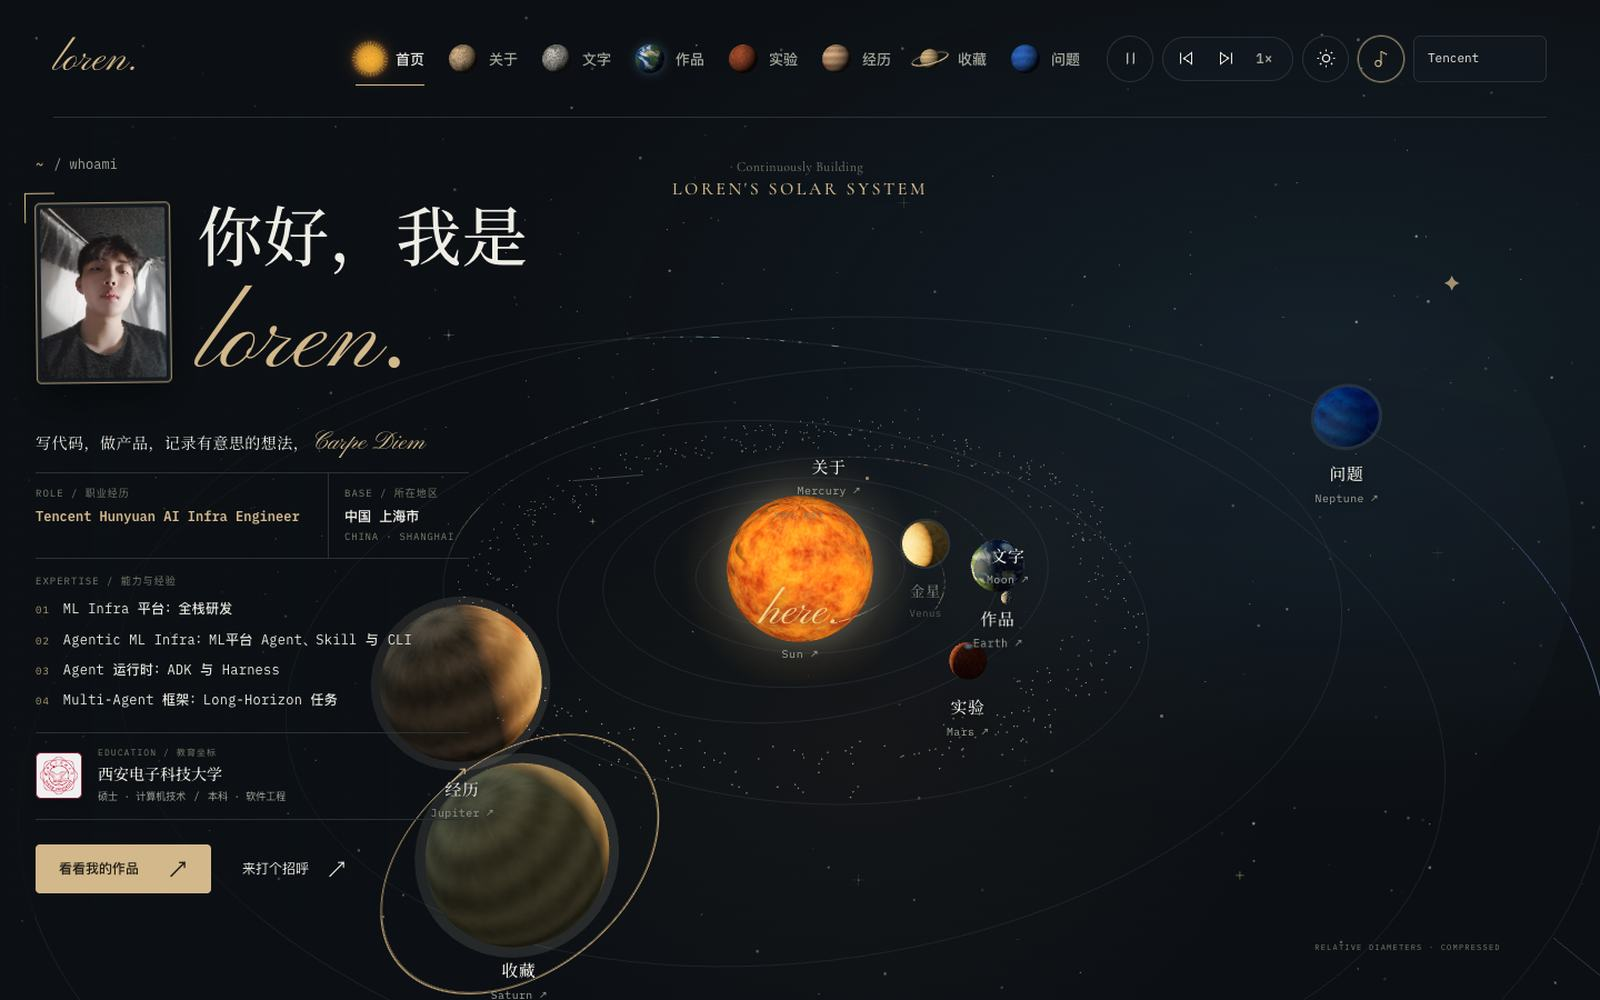
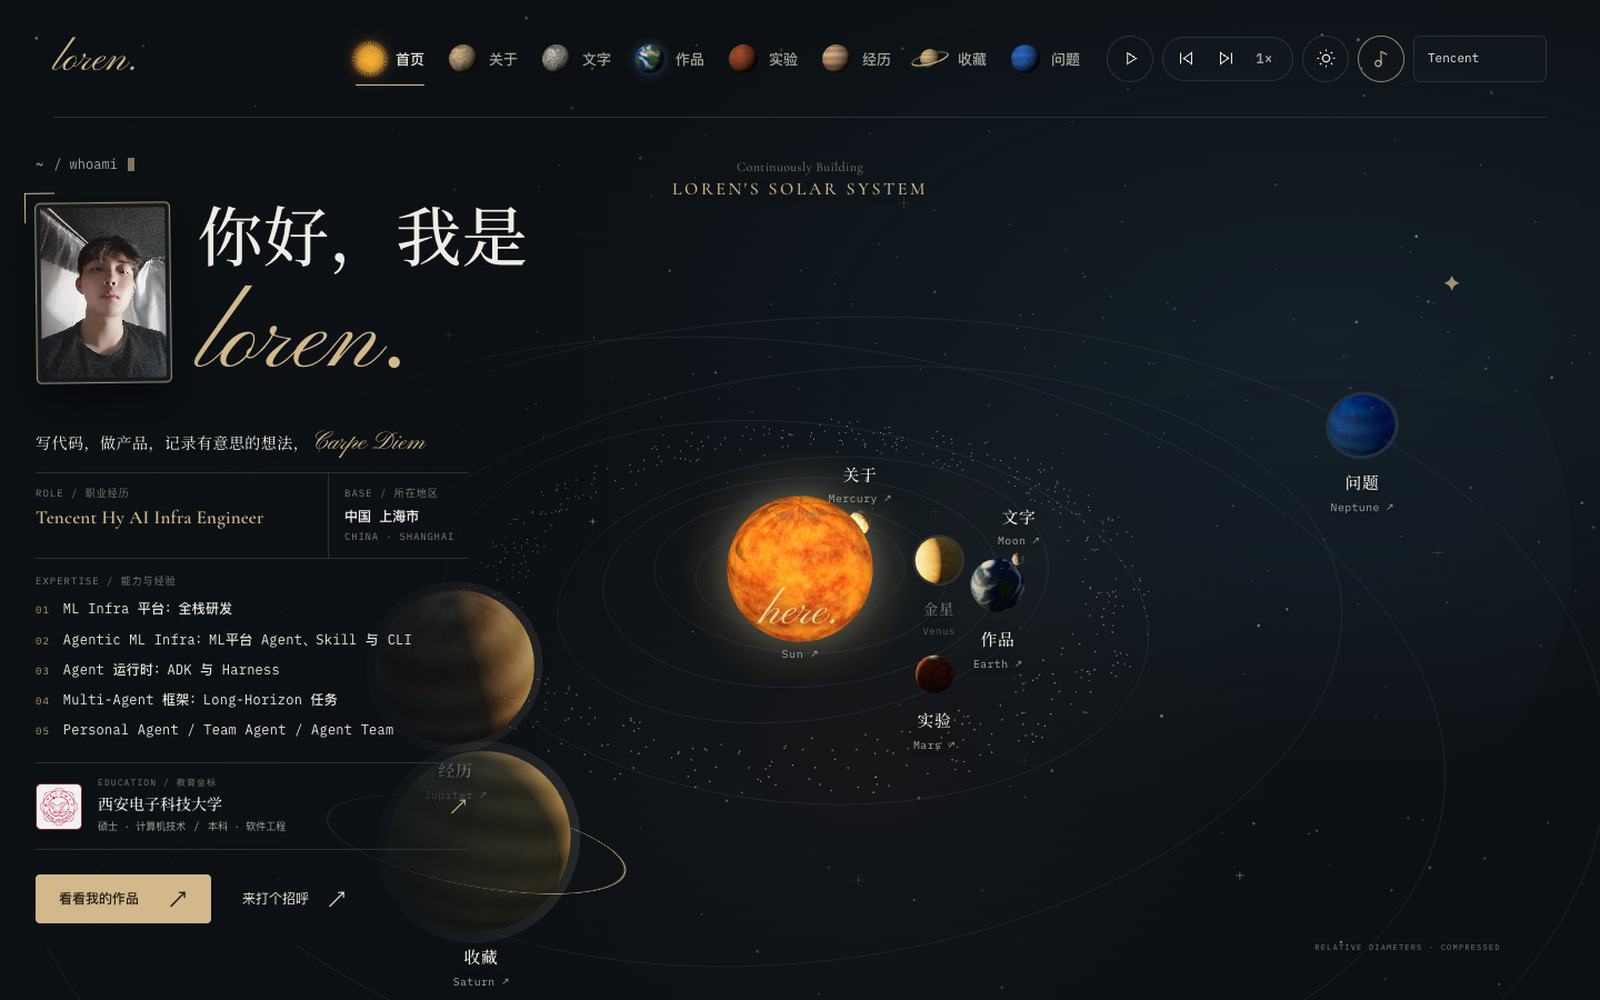
content: call the Tencent role Hy, and set the role line in a serif
The role, the journey entry, the "now" line and the logo alt now say Hy
instead of Hunyuan. The share card and the README home screenshot are
retaken because both showed the old role.

The home role line was 12px IBM Plex Mono. It now uses the display serif:
in a sans-serif, the capital I of "AI" is the same shape as a lowercase l,
so the role read as "Al Infra". Only the role changes; the location next
to it keeps its style.

The leak markers keep "Tencent Hunyuan": if the Tencent history is ever
unpublished, the old name must not leak either.

diff --git a/.harness-e2e/career-modes.js b/.harness-e2e/career-modes.js
@@ -12,7 +12,7 @@ async (page, fixture) => {
   page.on('pageerror', onError);
   const assert = (condition, message) => { if (!condition) throw new Error(message); };
   const roles = {
-    tencent: 'Tencent Hunyuan AI Infra Engineer',
+    tencent: 'Tencent Hy AI Infra Engineer',
     bytedance: 'Bytedance Seed AI Infra Engineer',
   };
   const companiesByMode = {
@@ -73,14 +73,14 @@ async (page, fixture) => {
     }
     if (ids.includes('tencent')) {
       const company = page.locator('[data-company-id="tencent"]');
-      assert(await company.locator('[data-role="Hunyuan AI Infra Engineer"]').count() === 1, `${label}: Hunyuan missing`);
-      assert((await company.locator('.journey-period').innerText()).includes('2026.09 — 至今'), `${label}: incorrect Hunyuan period`);
+      assert(await company.locator('[data-role="Hy AI Infra Engineer"]').count() === 1, `${label}: Hy role missing`);
+      assert((await company.locator('.journey-period').innerText()).includes('2026.09 — 至今'), `${label}: incorrect Hy period`);
       assert((await company.locator('.experience-company-header').innerText()).includes('2026.09 — 至今'), `${label}: incorrect Tencent period`);
       assert(await company.locator('.experience-highlights, .experience-skills, .experience-location').count() === 0, `${label}: unprovided Tencent data rendered`);
       assert(await company.locator('.experience-brand-text').count() === 0, `${label}: text placeholders remain`);
       const logoSelectors = [
         '.experience-company-logo img[src="./assets/tencent-logo.png"][alt="Tencent"]',
-        '.experience-role-logo img[src="./assets/tencent-hunyuan-logo.png"][alt="Tencent Hunyuan"]',
+        '.experience-role-logo img[src="./assets/tencent-hunyuan-logo.png"][alt="Tencent Hy"]',
       ];
       assert(await company.locator('img').count() === 2, `${label}: expected two brand images`);
       for (const selector of logoSelectors) {
@@ -264,7 +264,7 @@ async (page, fixture) => {
       company.roles[0].start = '';
     });
     assert(await page.locator('[data-company-id="tencent"] .experience-company-identity p').textContent() === '在职', 'Missing start: guessed Tencent date or duration');
-    assert(await page.locator('[data-role="Hunyuan AI Infra Engineer"] .journey-period').textContent() === '在职', 'Missing start: guessed Hunyuan date or duration');
+    assert(await page.locator('[data-role="Hy AI Infra Engineer"] .journey-period').textContent() === '在职', 'Missing start: guessed Hunyuan date or duration');
     results.push('missing current start date: PASS');
     await loadMode('all', (content) => { content.experience.find((company) => company.id === 'bytedance').roles[0].end = '2026-08'; });
     assert((await page.locator('[data-company-id="bytedance"] .experience-company-header').innerText()).includes('2024.04 — 2026.08'), 'Completed dates: incorrect company end');
@@ -272,7 +272,7 @@ async (page, fixture) => {
     const now = new Date();
     const months = (now.getFullYear() - 2026) * 12 + now.getMonth() - 8 + 1;
     const duration = [Math.floor(months / 12) ? `${Math.floor(months / 12)} 年` : '', months % 12 ? `${months % 12} 个月` : ''].filter(Boolean).join(' ');
-    assert(await page.locator('[data-role="Hunyuan AI Infra Engineer"] .journey-period small').textContent() === duration, 'Completed dates: incorrect current duration');
+    assert(await page.locator('[data-role="Hy AI Infra Engineer"] .journey-period small').textContent() === duration, 'Completed dates: incorrect current duration');
     results.push('completed dates: PASS');
     const noJS = await page.context().browser().newContext({ javaScriptEnabled: false });
     try {

diff --git a/.harness-e2e/career-locked.js b/.harness-e2e/career-locked.js
@@ -12,10 +12,10 @@ async (page) => {
     const companies = await page.locator('.experience-company').evaluateAll((nodes) => nodes.map((node) => node.dataset.companyId));
     assert(JSON.stringify(companies) === '["tencent"]', `${label}: non-Tencent company displayed`);
     for (const selector of ['[data-profile="role"]', '[data-profile-field="role"]']) {
-      assert(await page.locator(selector).textContent() === 'Tencent Hunyuan AI Infra Engineer', `${label}: wrong profile role`);
+      assert(await page.locator(selector).textContent() === 'Tencent Hy AI Infra Engineer', `${label}: wrong profile role`);
     }
     assert(!privateText.test(await page.locator('#main').innerHTML()), `${label}: private history leaked into content`);
-    assert((await page.locator('[data-role="Hunyuan AI Infra Engineer"] .journey-period').innerText()).includes('2026.09 — 至今'), `${label}: Hunyuan period changed`);
+    assert((await page.locator('[data-role="Hy AI Infra Engineer"] .journey-period').innerText()).includes('2026.09 — 至今'), `${label}: Hunyuan period changed`);
     assert(await page.locator('.journey-item-education').count() === 2, `${label}: education changed`);
     for (const image of await page.locator('[data-company-id="tencent"] img').all()) await image.evaluate((node) => node.decode());
   };

diff --git a/content.js b/content.js
@@ -17,7 +17,7 @@ window.SITE_CONTENT = {
     ],
     location: '中国 上海市',
     locationEn: 'CHINA · SHANGHAI',
-    now: "Building Hunyuan's Agentic ML Infra, where agents run the ML stack.",
+    now: "Building Hy's Agentic ML Infra, where agents run the ML stack.",
     nowNote: '让 Agent 成为 ML 平台的一等用户。',
     email: '1158083128@qq.com',
     github: 'https://github.com/ai-loren',
@@ -796,15 +796,15 @@ window.SITE_CONTENT = {
       company: '腾讯',
       modeName: 'Tencent',
       privateMarkers: ['Tencent', '腾讯', 'Tencent Hunyuan'],
-      profileRole: 'Tencent Hunyuan AI Infra Engineer',
+      profileRole: 'Tencent Hy AI Infra Engineer',
       logo: './assets/tencent-logo.png',
       logoAlt: 'Tencent',
       start: '2026-09',
       roles: [
         {
-          title: 'Hunyuan AI Infra Engineer',
+          title: 'Hy AI Infra Engineer',
           logo: './assets/tencent-hunyuan-logo.png',
-          logoAlt: 'Tencent Hunyuan',
+          logoAlt: 'Tencent Hy',
           logoKind: 'wide',
           start: '2026-09',
           current: true,

diff --git a/styles.css b/styles.css
@@ -245,6 +245,8 @@ p, h1, h2, h3 { margin: 0; overflow-wrap: anywhere; }
 .hero-profile-meta dt { color: var(--faint); font: 400 9px/1.5 var(--mono); letter-spacing: 1px; }
 .hero-profile-meta dd { margin: 5px 0 0; color: var(--text); font: 600 12px/1.6 var(--mono); overflow-wrap: anywhere; }
 .hero-profile-meta div:first-child dd { color: var(--accent); }
+/* 职位用衬线体：无衬线体里「AI」的大写 I 和小写 l 长得一样。 */
+.hero-profile-meta dd[data-profile="role"] { font: 600 17px/1.35 var(--display); letter-spacing: .01em; }
 [data-profile="role"], [data-profile-field="role"] { white-space: pre-line; overflow-wrap: anywhere; }
 .hero-profile-location > span { display: block; }
 .hero-profile-location small { display: block; margin-top: 2px; color: var(--faint); font: 400 9px/1.5 var(--mono); letter-spacing: .8px; }

diff --git a/index.html b/index.html
@@ -24,8 +24,8 @@
     <meta name="twitter:description" content="{{description}}">
     <link rel="icon" type="image/png" sizes="128x128" href="./assets/saturn-favicon.png?v=20260921-1">
     <link rel="preload" href="./vendor/fonts/noto-serif-sc-subset.woff2" as="font" type="font/woff2" crossorigin>
-    <link rel="stylesheet" href="./styles.css?v=20261030-polish">
-    <script src="./content.js?v=20261030-polish" defer></script>
+    <link rel="stylesheet" href="./styles.css?v=20261112-role">
+    <script src="./content.js?v=20261112-role" defer></script>
     <script src="./tools/vram-ledger.js?v=20261007-ledger3" defer></script>
     <script src="./tools/ckpt-goodput/ckpt-goodput.js?v=20261007-ckpt3" defer></script>
     <script src="./tools/agent-trace-replay/agent-trace-replay.js?v=20261007-trace" defer></script>

diff --git a/README.md b/README.md
@@ -168,7 +168,7 @@ node scripts/site.mjs serve
 
 完整数据仍在源码 `content.js` 的 `experience` 中维护。首页与关于的职位由公司 `profileRole` 派生；教育和其他栏目不受影响。构建会生成裁剪后的 `dist/content.js`，未开放公司的数据和 Logo 不进入 `dist/`。其他公开文件若残留该公司的名字、职位、`privateMarkers` 里的词或整句工作亮点，构建会报错而不是继续发布。非法开关同样直接报错，不回退为全部公开。
 
-展示范围不改变实际任职状态：Tencent 及 Hunyuan 岗位时间为 2026.09 — 至今，ByteDance 及 Seed 岗位均于 2026.09 结束。尚未提供的 Tencent 职责和技能留空，不推算或编造；缺少日期时不显示时长。补充日期使用 `YYYY-MM` 格式，当前岗位由 `current: true` 标识。公司结束月份仅在所有历史岗位结束月份已知时计算，避免把 Ads 结束日期误当成 ByteDance 离职日期。Tencent/Hunyuan 使用 `assets/tencent-logo.png` 和 `assets/tencent-hunyuan-logo.png`，通过 `logo` 和 `logoAlt` 配置；两张透明 PNG 分别来自[腾讯官方媒体库](https://www.tencent.com/en-us/media/library.html)和[混元官方仓库](https://github.com/Tencent/Tencent-Hunyuan-Large)，与选定的参考图版本一致，页面不依赖外链图片。
+展示范围不改变实际任职状态：Tencent 及 Hy 岗位时间为 2026.09 — 至今，ByteDance 及 Seed 岗位均于 2026.09 结束。尚未提供的 Tencent 职责和技能留空，不推算或编造；缺少日期时不显示时长。补充日期使用 `YYYY-MM` 格式，当前岗位由 `current: true` 标识。公司结束月份仅在所有历史岗位结束月份已知时计算，避免把 Ads 结束日期误当成 ByteDance 离职日期。Tencent/Hunyuan 使用 `assets/tencent-logo.png` 和 `assets/tencent-hunyuan-logo.png`，通过 `logo` 和 `logoAlt` 配置；两张透明 PNG 分别来自[腾讯官方媒体库](https://www.tencent.com/en-us/media/library.html)和[混元官方仓库](https://github.com/Tencent/Tencent-Hunyuan-Large)，与选定的参考图版本一致，页面不依赖外链图片。
 
 **安全边界是「不发送未公开数据」，不是让浏览器代码无法修改。** 访客可以修改自己的页面文字或 JavaScript，但不能从 Tencent 公开文件中还原未发布的履历。预览仅服务文件白名单；README、测试、构建配置、Git 元数据、未公开 Logo 和源码备份均不可通过预览 URL 访问。服务返回 `Cache-Control: no-store`，修改查询参数也只会得到同一份裁剪数据。
 
